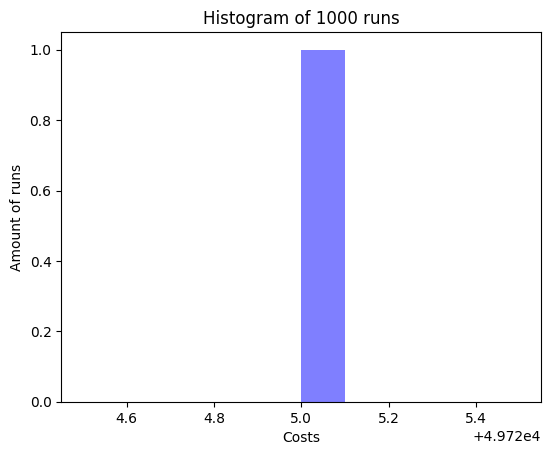
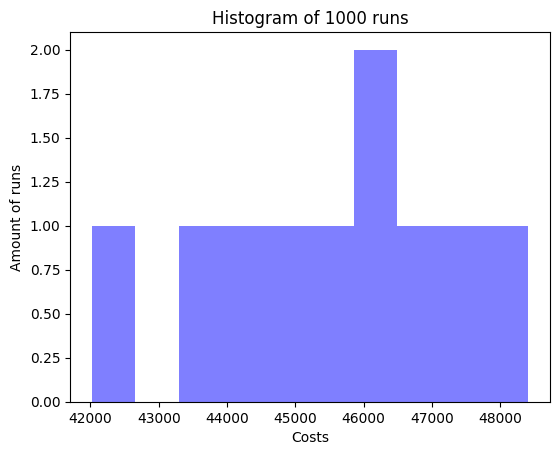
Distance related algorithm almost finished, if it runs multiple times it gives the same score

diff --git a/code/algorithms/distance_related_algorithm.py b/code/algorithms/distance_related_algorithm.py
@@ -1,4 +1,5 @@
 import math
+import random
 from ..classes.data import Data
 """
 First calculate the distances between each house and battery.
@@ -6,14 +7,19 @@ Then we make a list of tuples containing the house_id and the distance to the ba
 After making the lists we are going to add the houses to the battery
 """
 
+def mistakes(houses) -> bool:
+    for house_id in houses:
+        if houses[house_id].to_battery == None:
+            return True
+    return False
         
-
+# For now returns distance
 def calculate_score(house, distance):
-    output = house.max_output
-    score = distance + int(output)
-    return score
+    mean_distance = 34
+    mean_capacity = 50
+    return distance   
 
-
+# Add scores to the houses
 def add_scores(houses, batteries):
     for battery_id in batteries:
         unsorted_list = []
@@ -27,20 +33,7 @@ def add_scores(houses, batteries):
             # Add houses and their score to the battery to the list in battery class
             unsorted_list.append((houses[house_id].id, score_between_bat_house)) 
         sorted_list = sort_list_distance(unsorted_list)
-        batteries[battery_id].best_score_houses = sorted_list
-
-
-# Calculate the distance between each house and each battery
-def add_distances(houses, batteries):
-    for battery_id in batteries:
-        unsorted_list = []
-        for house_id in houses:
-            # Manhatten distance
-            distance_between_bat_house = calculate_distance(houses[house_id], batteries[battery_id]) 
-            # Add houses and their distance to the battery to the list in battery class
-            unsorted_list.append((houses[house_id].id, distance_between_bat_house)) 
-        sorted_list = sort_list_distance(unsorted_list)
-        batteries[battery_id].closest_houses = sorted_list
+        batteries[battery_id].best_score_houses = sorted_list   
 
 # Sorts the unsorted list to the second element of the tuple (house_id , distance)
 def sort_list_distance(unsorted_list):
@@ -70,7 +63,7 @@ def subtract(battery, house):
         battery.connections += 1
         house.to_battery = battery.id
 
-# Adds first house in closest_house to battery and then goes to next battery. ____gave a score of 18774 (district 3)
+# Adds first house in closest_house to battery and then goes to next battery.
 def add_houses_bat(houses, batteries):
     # Counter goes to 150 because there are 150 houses in each list for eacht battery
     for counter in range(150):
@@ -83,23 +76,80 @@ def add_houses_bat(houses, batteries):
                         subtract(battery, house)
     #print(houses)
     #print(batteries)
+
+    while mistakes(houses):
+        shuffle_houses(houses, batteries)
+        fill_batteries(houses, batteries)
     return Data(houses, batteries)
 
-# Add all (untill it does not fit) the houses to the batteries. So battery 1 has priority. ___gave a score of 23094 (district 3)
-def add_houses_bat_alternative(houses, batteries):
+# Checks which houses have no battery and shuffles them randomly with a house in a battery
+def shuffle_houses(houses, batteries):
+
+    houses_without_battery = []
+
+    house_id_to_shuffle = 0
+    output_house_to_shuffle = 0
+
+
+    # Checks which houses have no battery
+    for house_id in houses:
+        if houses[house_id].to_battery is None:
+            houses_without_battery.append((house_id, houses[house_id].max_output))
+
+    # Check which house without a battery has the most output 
+    for house in houses_without_battery:
+        if house[1] > output_house_to_shuffle:
+            output_house_to_shuffle = house[1]
+            house_id_to_shuffle = house[0]
+
+    # Check which batteries have capacity > 1 and choses random battery to switch with.
+    batteries_with_space = []
+    bat_id_to_shuffle = 0
     for battery_id in batteries:
-        battery = batteries[battery_id]
-        for house_and_distance in battery.closest_houses:
-            # House gives tuple (house_id , distance), we need house_id
-            house_id = house_and_distance[0] 
-            house = houses[house_id]
-            if fits(battery, house):
-                    subtract(battery, house)
-    return Data(houses, batteries)
-            
-    
-            
+        if batteries[battery_id].capacity > 1:
+            batteries_with_space.append(battery_id)
+    if len(batteries_with_space) > 0:
+        bat_id_to_shuffle = random.choice(batteries_with_space)
 
+    # Random choice of house to remove
+    house_id_to_remove = random.choice(batteries[bat_id_to_shuffle].to_houses)
+
+    # Shuffling takes place here
+    battery_to_shuffle = batteries[bat_id_to_shuffle]    
+    battery_to_shuffle.remove_house(houses[house_id_to_remove])
+    battery_to_shuffle.add_house(houses[house_id_to_shuffle])    
+
+# Function that finds the houses without battery and tries to fit these
+def fill_batteries(houses, batteries):
+    # List with house_id's and their output that dont have a battery yet
+    houses_without_battery = []
+
+    # List with battery_id's and their capacity
+    batteries_id_capacity = []
+
+    # Checks which houses have no battery
+    for house_id in houses:
+        if houses[house_id].to_battery is None:
+            houses_without_battery.append((house_id, houses[house_id].max_output))
+    
+    # Sorts houses on biggest output
+    houses_without_battery.sort(key = lambda x: x[1])
+    houses_without_battery.reverse()
+
+    for battery_id in batteries:
+        batteries_id_capacity.append((battery_id, batteries[battery_id].capacity))
+
+    # Sorts batteries on most capacity left
+    batteries_id_capacity.sort(key = lambda x: x[1])
+    batteries_id_capacity.reverse()
+
+    # Tries to add all houses without battery to the batteries
+    for house_tuple in houses_without_battery:
+        for battery_tuple in batteries_id_capacity:
+            if house_tuple[1] < battery_tuple[1]:
+                batteries[battery_tuple[0]].add_house(houses[house_tuple[0]])
+
+        
 def distance_algorithm(houses, batteries):
     add_scores(houses, batteries)
     return add_houses_bat(houses, batteries)

diff --git a/code/classes/battery.py b/code/classes/battery.py
@@ -11,6 +11,22 @@ class Battery:
         self.id = id
         self.closest_houses = []
         self.best_score_houses = []
+
+    def remove_house(self, house):
+        if house.id in self.to_houses:
+            self.to_houses.remove(house.id)
+            self.capacity += house.max_output
+            self.connections -= 1
+            house.to_battery = None
+
+
+    def add_house(self, house):
+        if house.max_output < self.capacity:
+            self.to_houses.append(house.id)
+            self.capacity -= house.max_output
+            self.connections += 1
+            house.to_battery = self.id
+
     
     def __repr__(self) -> str:
         return f"\tcoordinates = ({self.x}, {self.y})\t| capacity = {self.capacity}\t| connections = {self.connections}\n\tto houses = {self.to_houses}\n"

diff --git a/testmain.py b/testmain.py
@@ -28,8 +28,8 @@ if __name__ == "__main__":
 
     # Create score object for all runs
     final_score: Score = Score() 
-
-    for i in range(2):
+    
+    for i in range(10):
         data: Data = distance_algorithm(raw_data.houses, raw_data.batteries)
         data.add_cables()
         score = data.cables_cost()
@@ -39,7 +39,7 @@ if __name__ == "__main__":
     #print(raw_data.houses)
     #print(raw_data.batteries)
 
-
+    print(all_scores)
 
     #calculate average score, save dataset of best score
     average_score = final_score.calculate_average_score()

diff --git a/code/classes/house.py b/code/classes/house.py
@@ -9,7 +9,7 @@ class House:
         self.y = y
         self.max_output = max_output
         self.id = id
-        self.to_battery: int = None
+        self.to_battery = None
         self.incluster: bool = False
 
     def __repr__(self) -> str:
